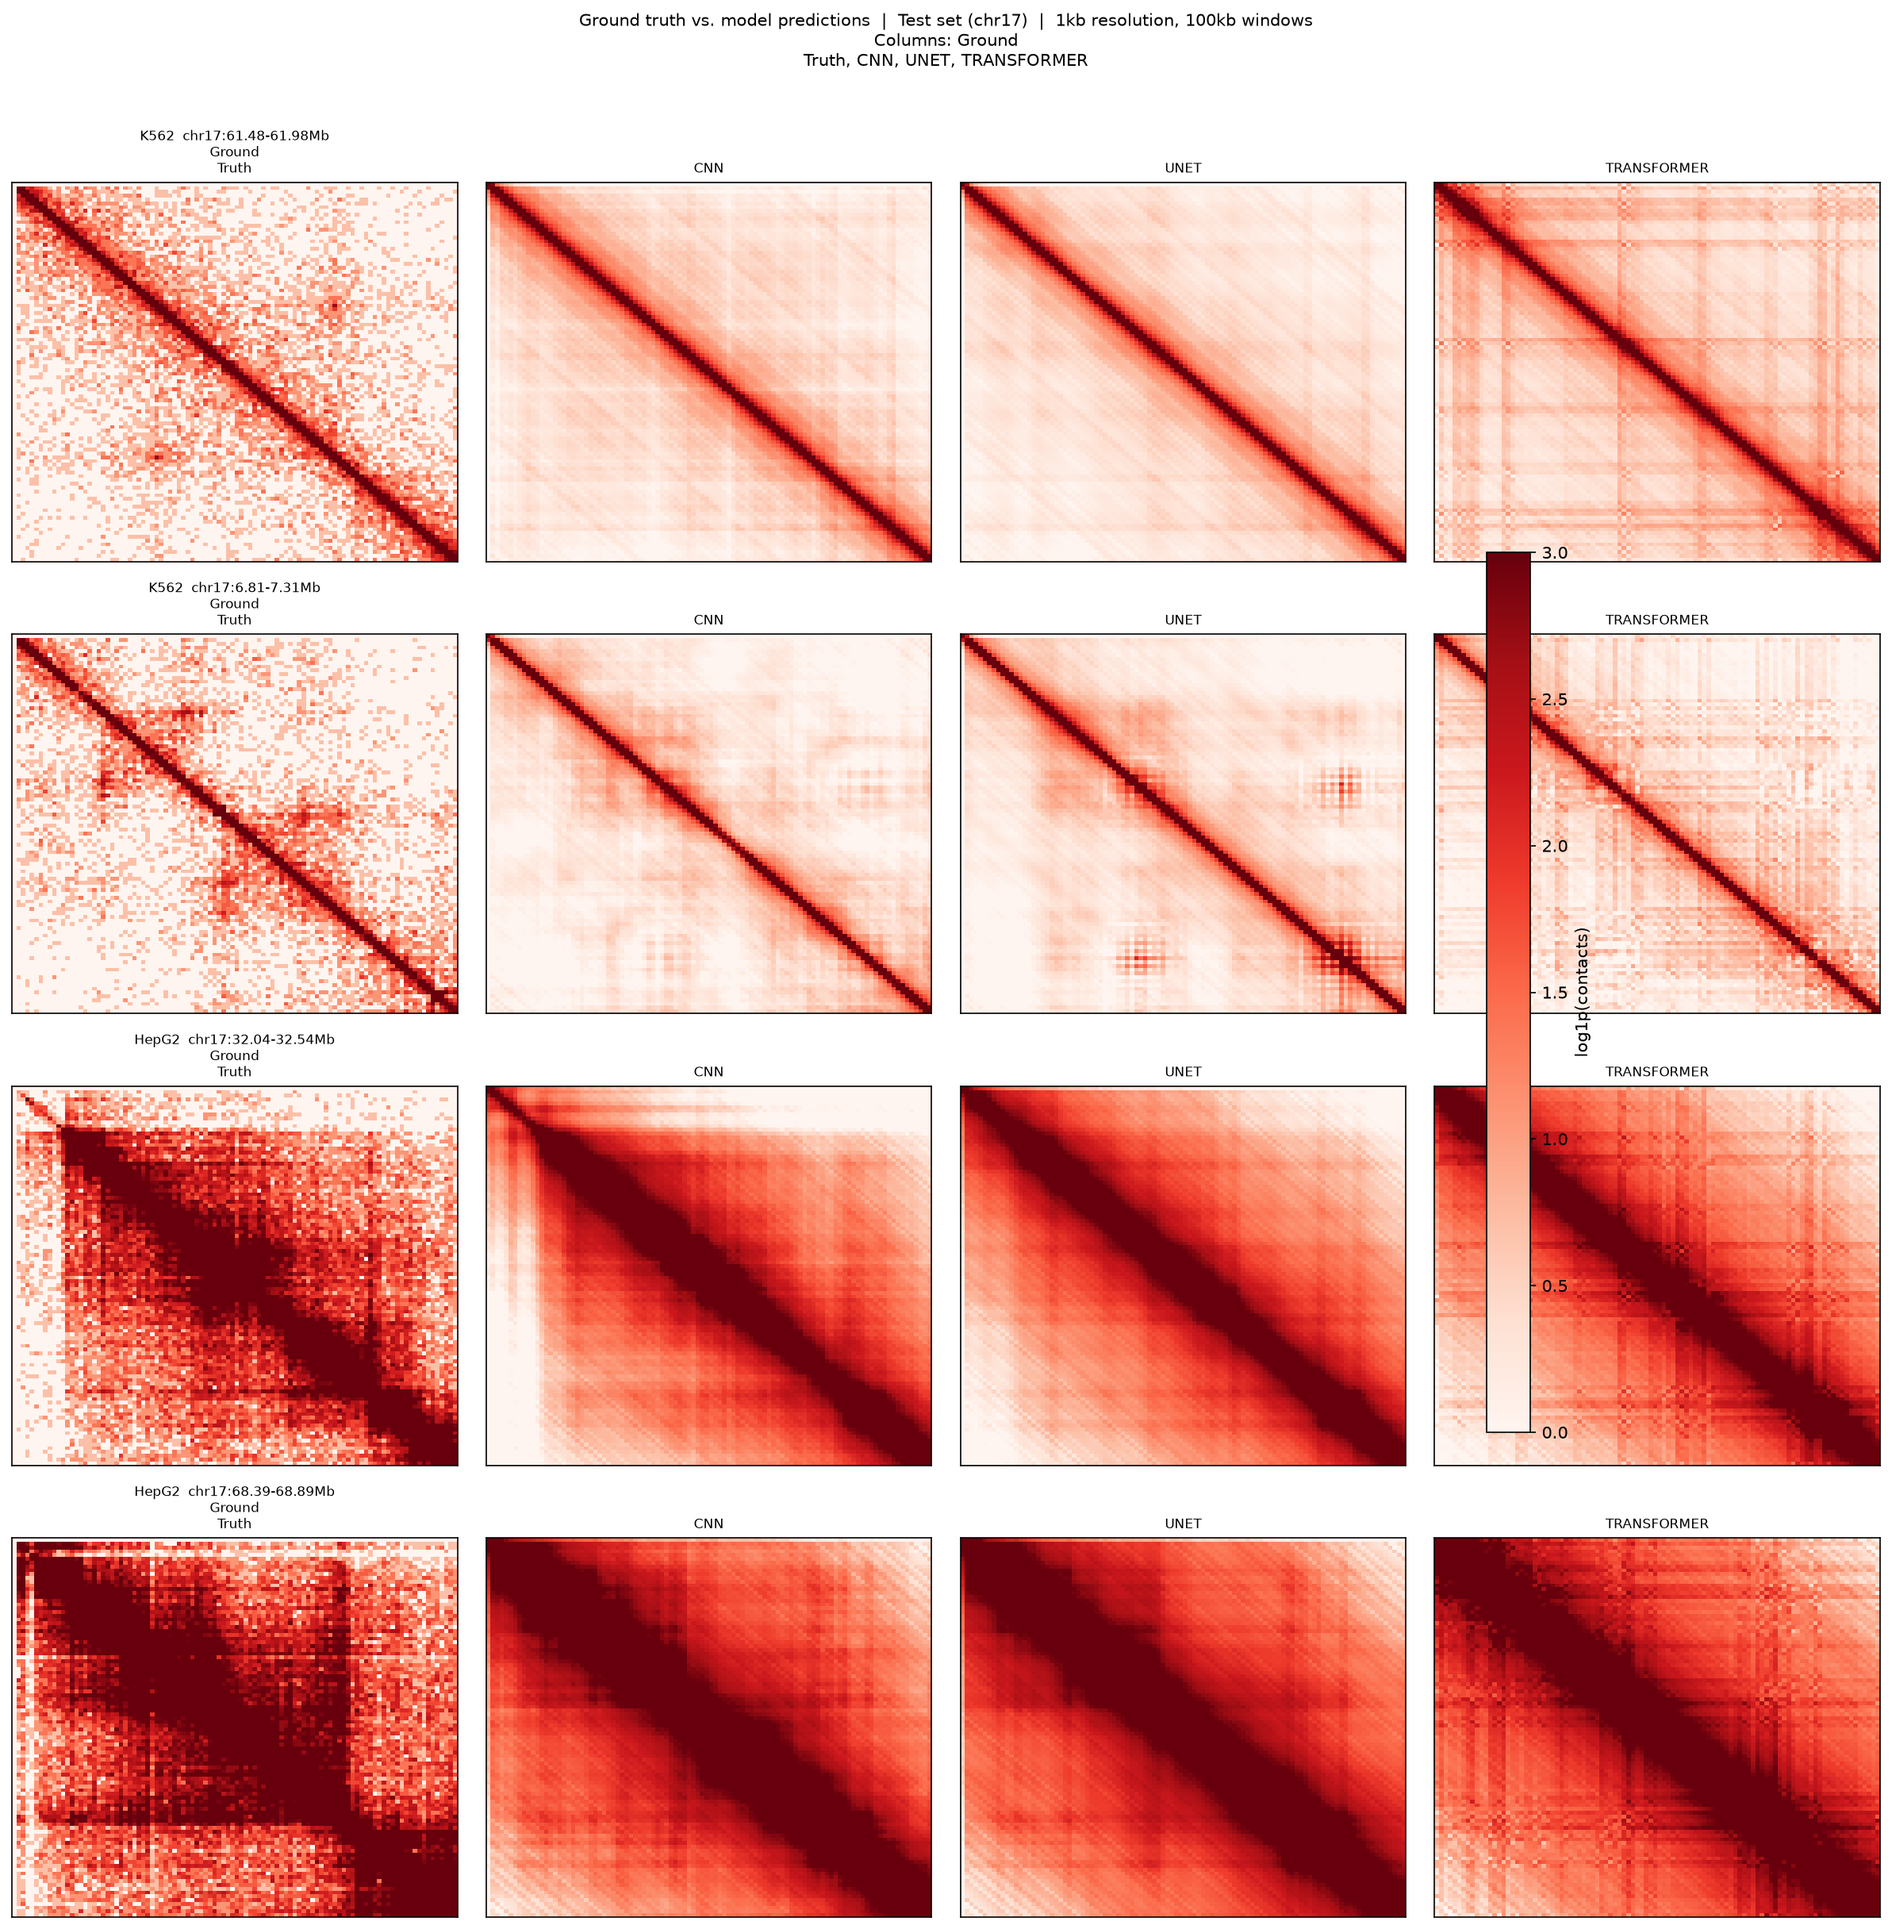
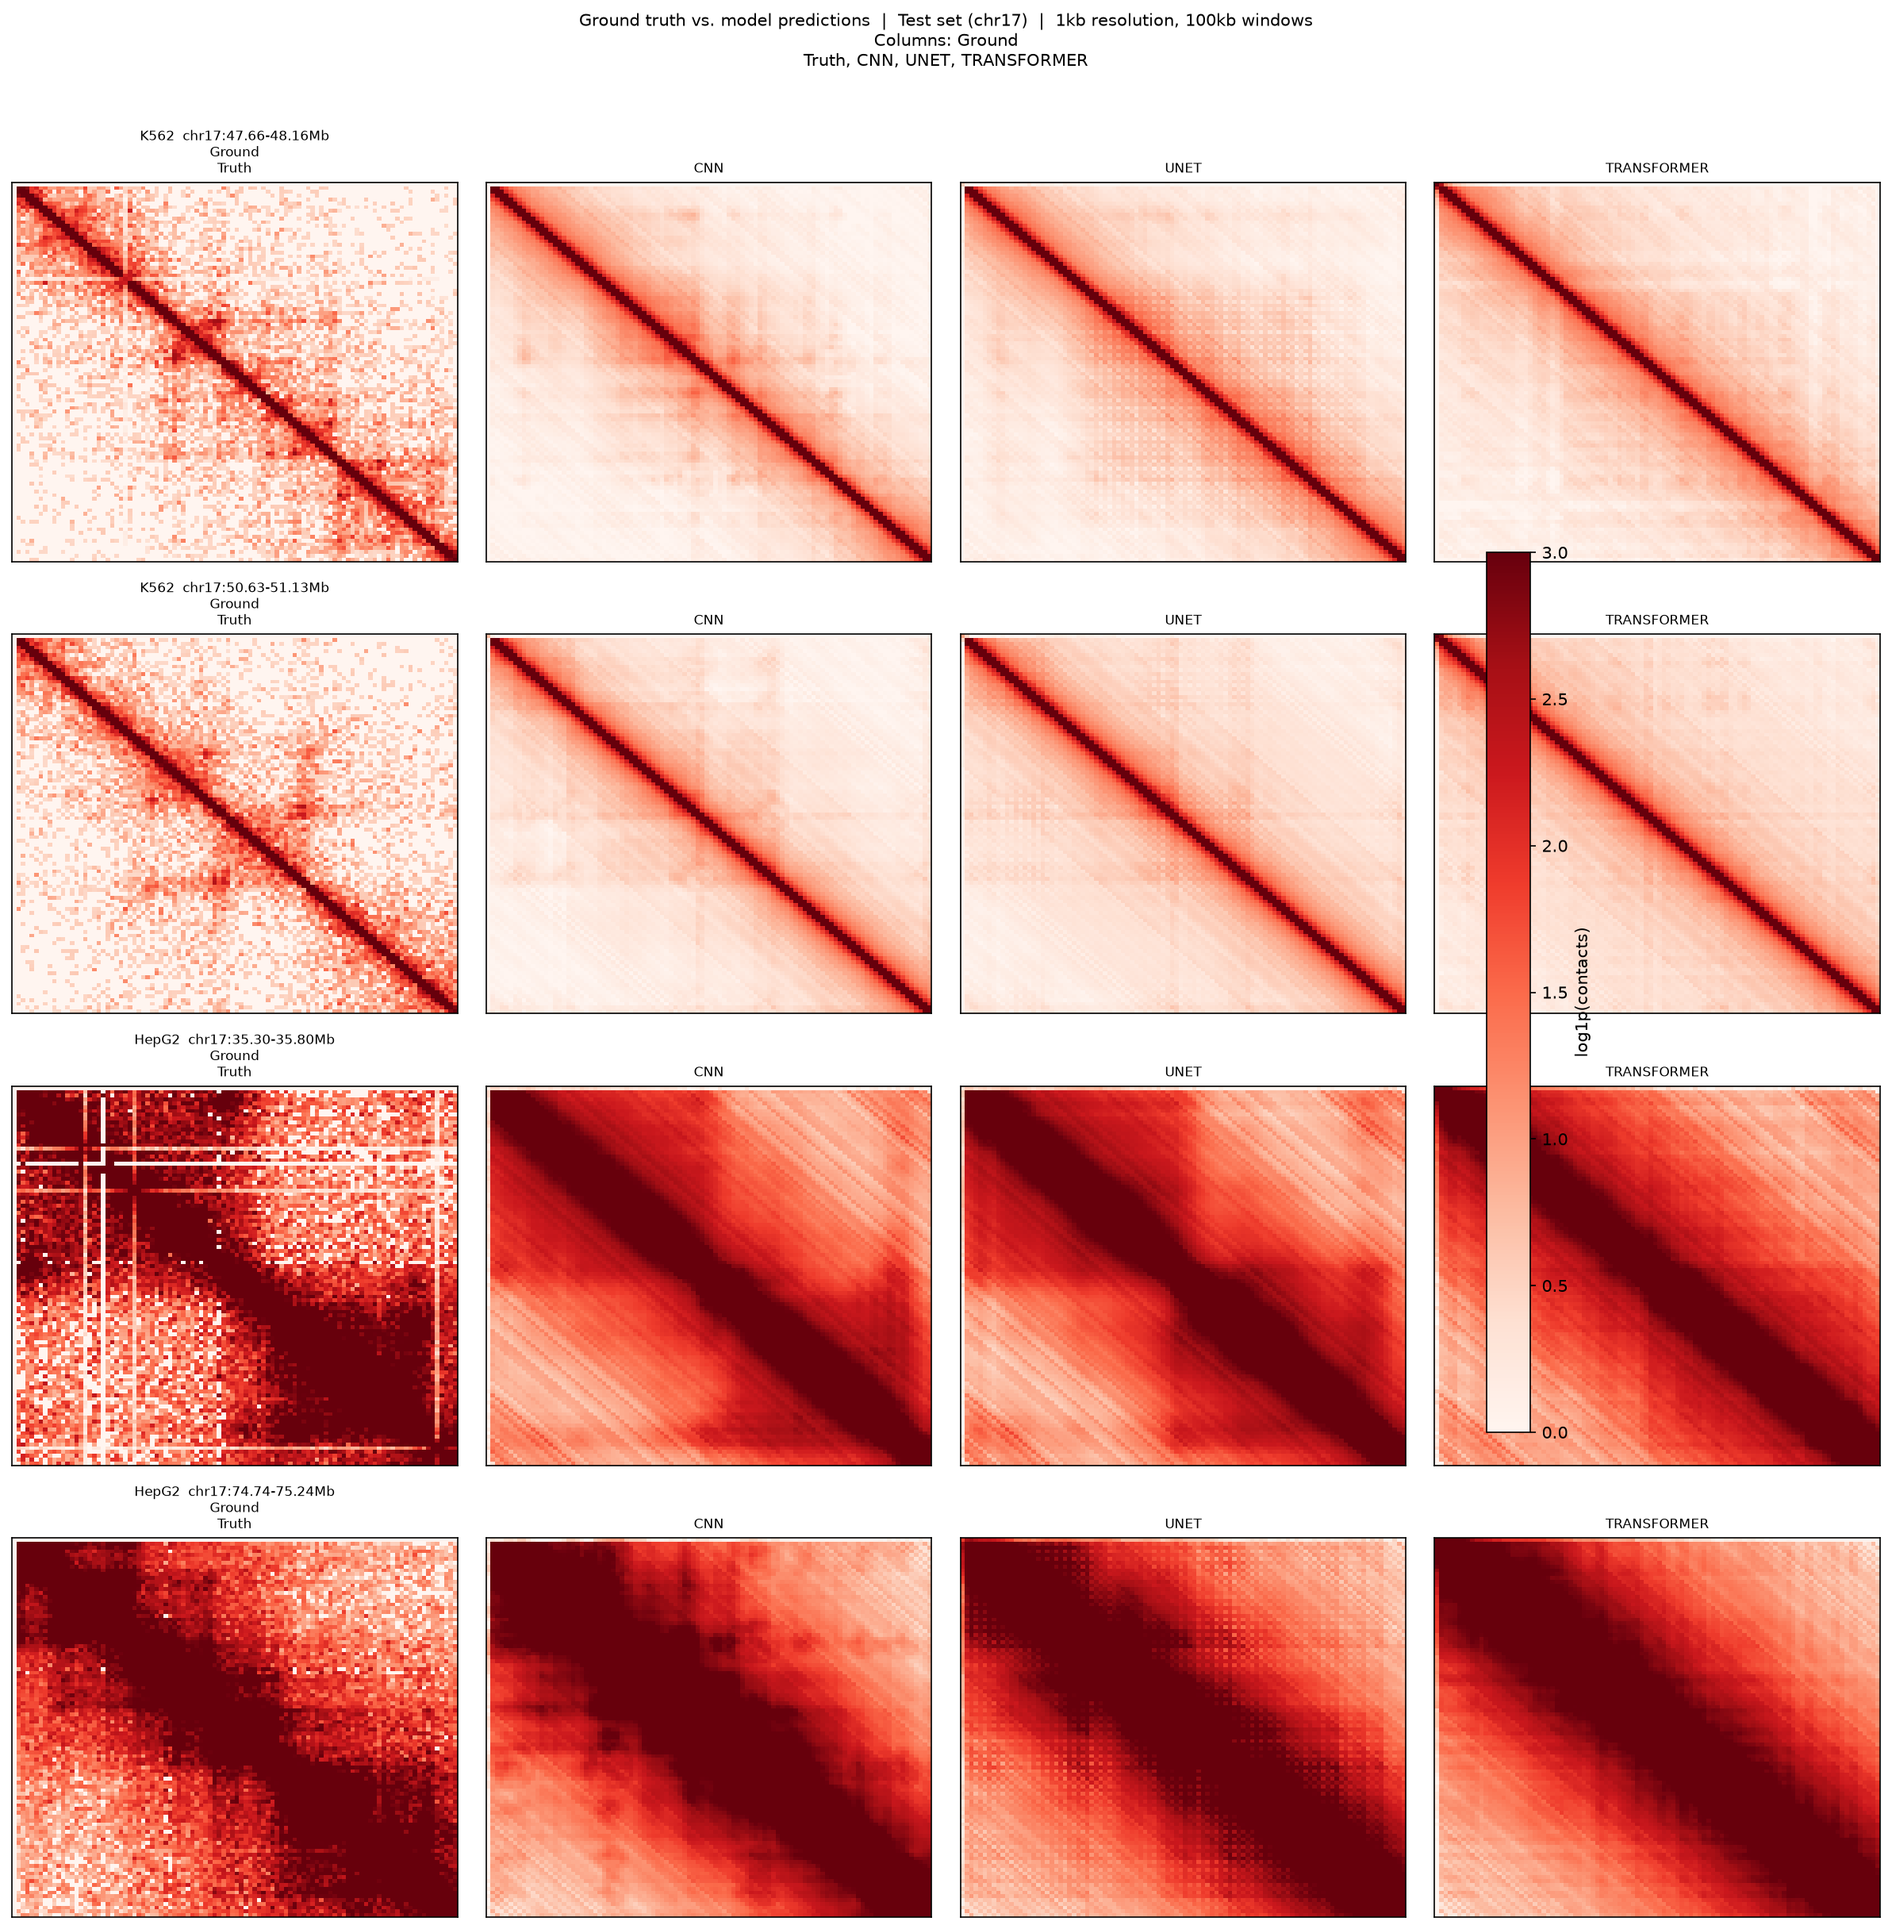
5kb experiment on 500kb window and higher training loops

diff --git a/training/modal_pipeline.py b/training/modal_pipeline.py
@@ -96,6 +96,7 @@ def prepare_data():
         download_file(cl_cfg["h3k27ac_url"], raw / f"{cl_name}_h3k27ac.bigWig")
         download_file(cl_cfg["dnase_url"],   raw / f"{cl_name}_dnase.bigWig")
         download_file(cl_cfg["loop_url"],    raw / cl_cfg["loop_filename"])
+        download_file(cl_cfg["hic_url"],     raw / f"{cl_name}.hic")
         print(f"[prepare] {cl_name}: done.")
 
     def parse_hiccups_gz(gz_path):
@@ -221,7 +222,7 @@ def prepare_data():
 @app.function(image=image, gpu="A10G",
               volumes={VOLUME_DATA: vol_data, VOLUME_CACHE: vol_cache,
                        VOLUME_RUNS: vol_runs},
-              timeout=60*60*6, cpu=4, memory=16384)
+              timeout=60*60*6, cpu=4, memory=65536)
 def train_model(model_name: str) -> dict:
     import csv, json, time
     import numpy as np
@@ -251,10 +252,10 @@ def train_model(model_name: str) -> dict:
 
         def _paths(self, cl):
             return {
-                "ctcf":    raw / f"{cl}_ctcf.bigWig",
-                "h3k27ac": raw / f"{cl}_h3k27ac.bigWig",
-                "dnase":   raw / f"{cl}_dnase.bigWig",
-                "hic":     cfg["cell_lines"][cl]["hic_url"],
+                "ctcf": str(raw / f"{cl}_ctcf.bigWig"),
+                "h3k27ac": str(raw / f"{cl}_h3k27ac.bigWig"),
+                "dnase": str(raw / f"{cl}_dnase.bigWig"),
+                "hic": str(raw / f"{cl}.hic"),
             }
 
         def _cache(self, row):
@@ -333,43 +334,6 @@ def train_model(model_name: str) -> dict:
     run_dir.mkdir(parents=True, exist_ok=True)
     cache_dir = VOLUME_CACHE / "windows"
 
-    # ── Normalizer (fit on train only, per cell line) ─────────────────────
-    # norm_path  = VOLUME_RUNS / "normalizer.json"
-    # config_cls = set(cfg["cell_lines"].keys())
-    # need_refit = True
-    # if norm_path.exists():
-    #     with open(norm_path) as f: normalizer = json.load(f)
-    #     if set(normalizer.keys()) == config_cls:
-    #         need_refit = False
-    #         print(f"[train] Loaded normalizer for {config_cls}.")
-    #     else:
-    #         print(f"[train] Normalizer covers {set(normalizer.keys())}, "
-    #               f"need {config_cls}. Refitting.")
-
-    # if need_refit:
-    #     import pandas as pd
-    #     raw_ds = LoopDataset(manifest, "train", normalizer=None, cache_dir=cache_dir)
-    #     tm = pd.read_csv(manifest)
-    #     tm = tm[tm["split"] == "train"]
-    #     normalizer = {}
-    #     for cl in tm["cell_line"].unique():
-    #         idxs   = tm[tm["cell_line"] == cl].index.tolist()
-    #         n_s    = min(80, len(idxs))
-    #         sample = np.linspace(0, len(idxs)-1, n_s).astype(int)
-    #         sums   = np.zeros(3); sq_sums = np.zeros(3); count = 0
-    #         for i in sample:
-    #             t = raw_ds.get_tracks(idxs[i])
-    #             sums    += t.sum(axis=1)
-    #             sq_sums += (t**2).sum(axis=1)
-    #             count   += t.shape[1]
-    #         mean = sums / count
-    #         std  = np.sqrt(np.clip(sq_sums/count - mean**2, 1e-8, None))
-    #         normalizer[cl] = {"mean": mean.tolist(), "std": std.tolist()}
-    #         print(f"  {cl}: CTCF_mean={mean[0]:.3f} "
-    #               f"H3K27ac_mean={mean[1]:.3f} DNase_mean={mean[2]:.3f}")
-    #     with open(norm_path, "w") as f: json.dump(normalizer, f, indent=2)
-    #     vol_runs.commit()
-
     norm_path = VOLUME_RUNS / "normalizer.json"
     config_cls = set(cfg["cell_lines"].keys())
     need_refit = True
@@ -421,9 +385,9 @@ def train_model(model_name: str) -> dict:
 
     bs = tr_cfg["batch_size"]
     train_loader = DataLoader(train_ds, batch_size=bs, shuffle=True,
-                              num_workers=2, pin_memory=True)
+                              num_workers=0, pin_memory=True)
     test_loader  = DataLoader(test_ds,  batch_size=bs, shuffle=False,
-                              num_workers=2, pin_memory=True)
+                              num_workers=0, pin_memory=True)
     n_bins = int(train_ds.manifest["n_bins"].iloc[0])
 
     # ── Model ─────────────────────────────────────────────────────────────
@@ -571,8 +535,9 @@ def train_model(model_name: str) -> dict:
     # Per-cell-line breakdown on best checkpoint
     ckpt = torch.load(ckpt_path, map_location=device, weights_only=False)
     model.load_state_dict(ckpt["model_state_dict"]); model.eval()
-    per_cl = {cl: {"hub": 0., "corr": 0., "n": 0}
+    per_cl = {cl: {"hub": 0., "corr": 0., "corr_n": 0, "n": 0}
                for cl in cfg["cell_lines"]}
+    nan_windows = {cl: [] for cl in cfg["cell_lines"]}  # for locus reporting
     with torch.no_grad():
         for batch in test_loader:
             tracks = batch["tracks"].to(device, non_blocking=True)
@@ -582,22 +547,36 @@ def train_model(model_name: str) -> dict:
                 cl = batch["cell_line"][i]
                 if cl not in per_cl: continue
                 m = evaluate_batch(pred[i:i+1], target[i:i+1])
-                per_cl[cl]["hub"]  += huber_loss(
+                per_cl[cl]["hub"] += huber_loss(
                     pred[i:i+1], target[i:i+1], delta=0.5).item()
-                per_cl[cl]["corr"] += m["stratum_adjusted_corr"]
-                per_cl[cl]["n"]    += 1
+                per_cl[cl]["n"]   += 1
+                corr_val = m["stratum_adjusted_corr"]
+                if np.isnan(corr_val):
+                    # Record which window degenerated instead of silently
+                    # poisoning the running average. chrom/start/end aren't
+                    # in `batch` by default -- see note below to add them.
+                    nan_windows[cl].append(i)
+                else:
+                    per_cl[cl]["corr"]    += corr_val
+                    per_cl[cl]["corr_n"]  += 1
 
     cl_results = {}
     print(f"\n  Per-cell-line (best checkpoint, epoch {ckpt['epoch']}):")
     for cl, v in per_cl.items():
         n = max(1, v["n"])
+        corr_n = v["corr_n"]
+        mean_corr = v["corr"] / corr_n if corr_n > 0 else float("nan")
         cl_results[cl] = {
             "test_huber": v["hub"] / n,
-            "test_corr":  v["corr"] / n,
-            "n": v["n"],
+            "test_corr":  mean_corr,
+            "corr_valid_windows": corr_n,
+            "n": n,
         }
-        print(f"    {cl}: huber={v['hub']/n:.4f}  corr={v['corr']/n:.4f}  n={v['n']}")
-
+        n_nan = len(nan_windows[cl])
+        flag = f"  *** {n_nan}/{n} windows NaN (degenerate/constant) ***" if n_nan else ""
+        print(f"    {cl}: huber={v['hub']/n:.4f}  corr={mean_corr:.4f}  "
+              f"(valid {corr_n}/{n}){flag}")
+        
     vol_runs.commit(); vol_cache.commit()
     return {
         "model":            model_name,

diff --git a/training/src/genomic_io.py b/training/src/genomic_io.py
@@ -12,6 +12,31 @@ from typing import Tuple
 import numpy as np
 import requests
 
+_HICFILE_CACHE: dict = {}
+_HICFILE_CALL_COUNT: dict = {}
+_HICFILE_MAX_CALLS = 50
+
+def _get_hicfile(hic_source: str):
+    import hicstraw
+    count = _HICFILE_CALL_COUNT.get(hic_source, 0)
+    if hic_source not in _HICFILE_CACHE or count >= _HICFILE_MAX_CALLS:
+        _HICFILE_CACHE[hic_source] = hicstraw.HiCFile(hic_source)
+        _HICFILE_CALL_COUNT[hic_source] = 0
+    _HICFILE_CALL_COUNT[hic_source] += 1
+    return _HICFILE_CACHE[hic_source]
+ 
+ 
+def _looks_like_missing_norm(exc: Exception) -> bool:
+    """Only these error shapes indicate 'this normalization vector isn't
+    computed for this file/resolution' -- genuinely safe to fall back on.
+    Anything else (bad_alloc, network errors, etc.) is a real failure that
+    falling back to a different normalization will NOT fix."""
+    msg = str(exc).lower()
+    return (
+        "did not contain" in msg
+        or "normalization" in msg and "not" in msg
+        or "no such" in msg
+    )
 
 def download_file(url: str, out_path: Path, chunk_mb: int = 8, max_retries: int = 8) -> Path:
     """Resumable download with retry, identical behavior to the viz script."""
@@ -58,33 +83,21 @@ def hic_matrix(
     start: int,
     end: int,
     bin_size: int,
+    normalization_preference: tuple = ("SCALE", "VC_SQRT", "NONE"),
 ) -> Tuple[np.ndarray, int]:
-    """
-    Fetch a square Hi-C contact matrix for [start, end) at the given chrom,
-    using the same chromosome-name resolution and normalization fallback
-    as the visualization script.
-
-    Returns (matrix, actual_bin_size_used). actual_bin_size_used may differ
-    from the requested bin_size if the .hic file doesn't have that exact
-    zoom level cached -- the caller MUST check this and either accept it
-    or raise, never silently assume the requested size was honored.
-    """
     try:
         import hicstraw
     except ImportError as e:
         raise ImportError(
-            "hic_matrix() requires the 'hic-straw' package, which is not "
-            "installed. Install with: pip install hic-straw. (Note: this "
-            "requires libcurl development headers on the system, e.g. "
-            "`apt install libcurl4-openssl-dev` on Debian/Ubuntu, since "
-            "hic-straw compiles a C++ extension.)"
+            "hic_matrix() requires the 'hic-straw' package. "
+            "Install with: pip install hic-straw."
         ) from e
-
-    hf = hicstraw.HiCFile(hic_source)
+ 
+    hf = _get_hicfile(hic_source)   # <-- reused across calls, not reopened
     avail_res = hf.getResolutions()
     best = max((r for r in avail_res if r <= bin_size), default=min(avail_res))
     bin_size_used = best
-
+ 
     names = [c.name for c in hf.getChromosomes()]
     key = chrom
     if key not in names:
@@ -97,23 +110,49 @@ def hic_matrix(
             raise ValueError(
                 f"Chromosome '{chrom}' not found in Hi-C file. Available: {names}"
             )
-
+ 
     n = max(1, int(np.ceil((end - start) / bin_size_used)))
-
-    mzd = hf.getMatrixZoomData(
-        key,
-        key,
-        "observed",
-        "NONE",
-        "BP",
-        bin_size_used,
-    )
-    raw = mzd.getRecordsAsMatrix(start, end, start, end)
-
+ 
+    mzd = None
+    norm_used = None
+    last_err = None
+    for norm in normalization_preference:
+        try:
+            mzd_try = hf.getMatrixZoomData(key, key, "observed", norm, "BP", bin_size_used)
+            raw_try = mzd_try.getRecordsAsMatrix(start, end, start, end)
+            if raw_try.size == 0 or not np.isfinite(raw_try).any():
+                raise ValueError(f"'{norm}' returned empty/non-finite matrix")
+            mzd, raw, norm_used = mzd_try, raw_try, norm
+            break
+        except Exception as e:
+            if not _looks_like_missing_norm(e):
+                # Real failure (memory, network, corrupt state) -- don't
+                # burn through the remaining normalizations pretending
+                # this is a "not available" case. Surface it immediately.
+                raise RuntimeError(
+                    f"hic_matrix() failed on {chrom}:{start}-{end} while "
+                    f"requesting '{norm}' -- this does not look like a "
+                    f"missing-normalization error, so not falling back. "
+                    f"Original error: {type(e).__name__}: {e}"
+                ) from e
+            last_err = e
+            continue
+ 
+    if mzd is None:
+        raise RuntimeError(
+            f"No usable normalization found for {hic_source} at {chrom}:{start}-{end} "
+            f"(tried {normalization_preference}). Last error: {last_err}"
+        )
+ 
+    if norm_used != normalization_preference[0]:
+        print(f"  [WARN] {chrom}:{start}-{end}: '{normalization_preference[0]}' "
+              f"unavailable, fell back to '{norm_used}'.")
+ 
     mat = np.zeros((n, n), dtype=np.float32)
     r0 = min(raw.shape[0], n)
     c0 = min(raw.shape[1], n)
     mat[:r0, :c0] = raw[:r0, :c0]
+    mat = np.nan_to_num(mat, nan=0.0)
     return mat, bin_size_used
 
 def read_bigwig(
